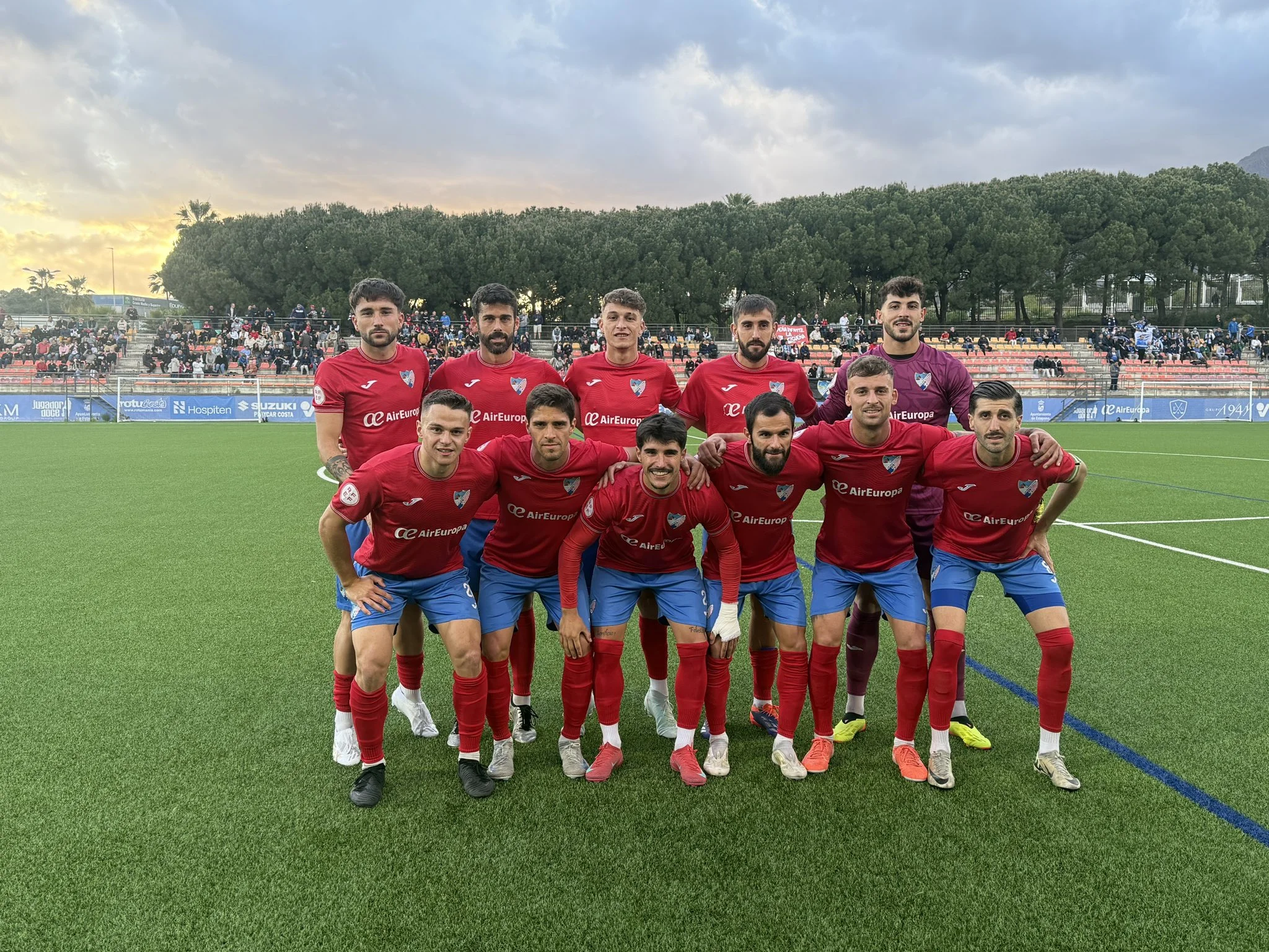
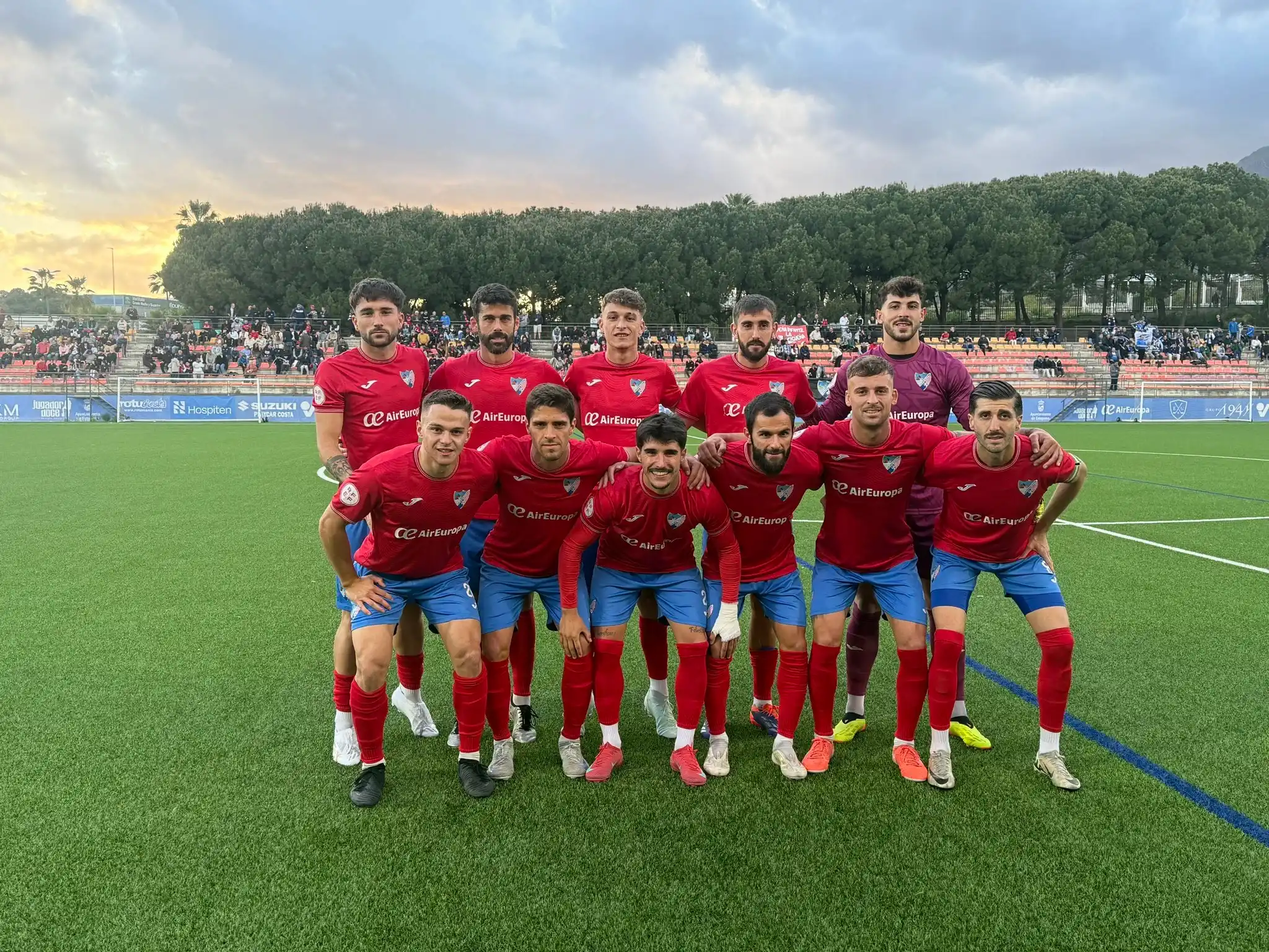
compress images

diff --git a/src/lib/optimizeImage.ts b/src/lib/optimizeImage.ts
@@ -1,5 +1,5 @@
 export function optimizeCloudinaryUrl(url: string): string {
   return url.includes("res.cloudinary.com")
-    ? url.replace("/upload/", "/upload/f_webp,q_auto/")
+    ? url.replace("/upload/", "/upload/f_webp,q_auto:eco/")
     : url;
 }
